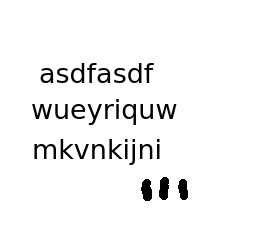
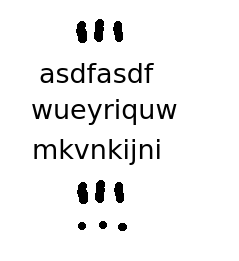
work on unassigned lines

diff --git a/src/louloudis.m b/src/louloudis.m
@@ -199,8 +199,7 @@ function finalBoxes = louloudis(binarizedImage)
     end
     
     %figure(),imshow(lineLabels);
-    hold on;
-    
+    %hold on;
     
     %intersecting lines
     intersection = lineSegmentIntersect(linePoints,linePoints);
@@ -218,8 +217,8 @@ function finalBoxes = louloudis(binarizedImage)
 %     figure(),imagesc(lineLabels);
 %     title('Before merging');
     
-    imshow(binarizedImage);
-    drawnow
+    imshow(labels);
+    %drawnow
     hold on;
     for ii = 1:length(subset1)
         pboxes = cell2mat(subset1(ii).PieceBoxCell);
@@ -262,13 +261,15 @@ function finalBoxes = louloudis(binarizedImage)
     subset1CCs = [subset1.Index];
     ccsNotInLine = subset1CCs(~ismember(subset1CCs,ccsInLines));
     [cRow,cCol]=find(ismember(centroidImg,ccsNotInLine));
-    %cPoints = [cCol,cRow]; %change into order X,Y
-    cPoints = [cRow,cCol];
+    cPoints = [cCol,cRow]; %change into order X,Y
+    %cPoints = [cRow,cCol];
     rowCentYs= mean([linePoints(:,2),linePoints(:,4)],2);
     
     %find distance between each of these centroid pixels and nearest
     %detected line. 
+    
     candidatePoints = [];
+    [centRows,centCols] = find(centroidImg);
     for ii = 1:length(cPoints)
         p = cPoints(ii,:);
         %find nearest line
@@ -278,20 +279,30 @@ function finalBoxes = louloudis(binarizedImage)
         closestLine = linePoints(minIdx,:);
         q1 = closestLine(1:2);
         q2 = closestLine(3:4);
-        distance = abs(det([q2-q1;p-q1]))/norm(q2-q1);
+        
+        distance = det([q2-q1;p-q1])/norm(q2-q1);
+        newY = rowCentYs(minIdx)+distance;
+        newLineYRange = newY-5:newY+5;
+        centsInRange = centRows(centRows>newY-5 & centRows<newY+5);
+        % continue from here
+        
+        
         %"If [distance] ranges around the average distance of adjacent lines 
         %then the corresponding block is considered as a candidate to 
-        %belong to a new text line." -Louloudis et.al 
+        %belong to a new text line." -Louloudis et.al. 
         %'Ranges around' means what exactly? 
-        if distance <= avgDistance*1.1
-            pId=centroidImg(p(1),p(2));
+        loweredDistance = distance*0.9;
+        if loweredDistance<= avgDistance
+            pId=centroidImg(p(2),p(1));
             candidatePoints(end+1,:) = pId;
-
         end
     end
     
-    
-
+    sub1Pieces = [subset1.PiecesAmount];
+    candPieceAmount = sub1Pieces(ismember([subset1.Index],candidatePoints));
+    candOccurences = histcounts(candidatePoints,'BinMethod','Integers');
+    candOccurences(candOccurences==0)=[];
+    objsInNewLine = candidatePoints(candOccurences >= 0.5*candPieceAmount);
     
     
     %% visualization stuffs
